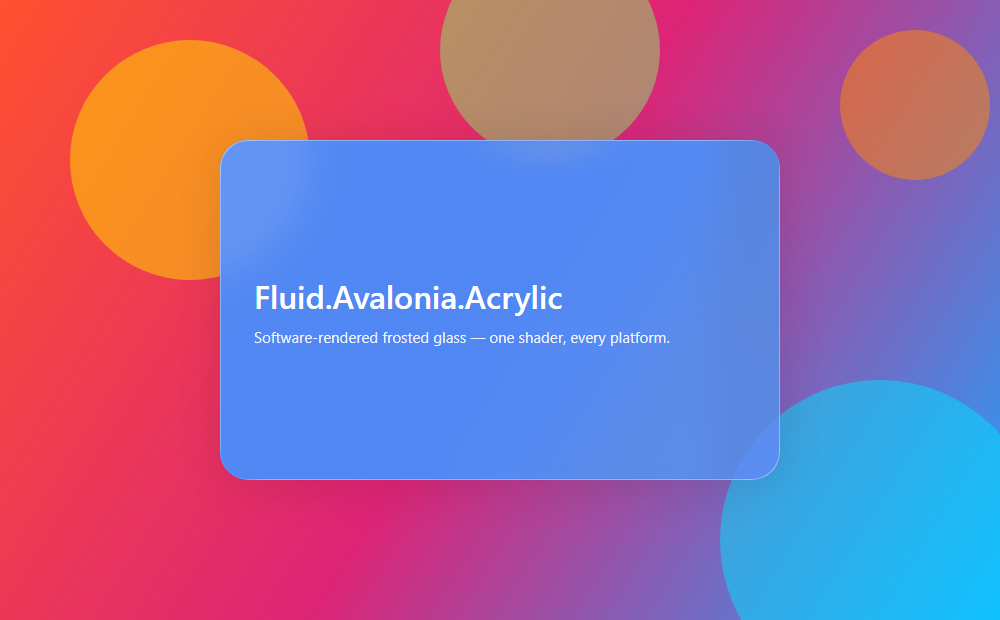
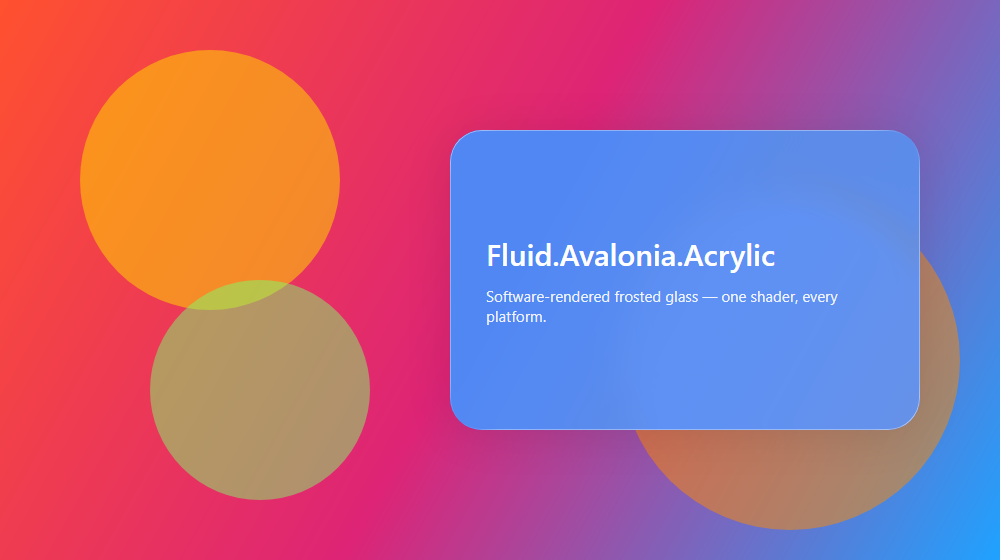
docs: recompose hero off-center and move it into the Screenshots gallery
- Re-render docs/acrylic-hero.png with the glass card off-centered to the right
  (was dead-centered) so the backdrop reads as a real scene.
- Move the hero out of the centered header into the Screenshots section, ahead of
  the showcase and cool shots.

diff --git a/README.md b/README.md
@@ -7,8 +7,6 @@ A cross-platform, software-rendered **acrylic / frosted-glass backdrop** for [Av
 [![NuGet](https://img.shields.io/nuget/v/Fluid.Avalonia.Acrylic.svg)](https://www.nuget.org/packages/Fluid.Avalonia.Acrylic)
 [![License: MIT](https://img.shields.io/badge/License-MIT-blue.svg)](https://github.com/Alpaq92/Fluid.Avalonia.Acrylic/blob/main/LICENSE)
 
-<img src="https://raw.githubusercontent.com/Alpaq92/Fluid.Avalonia.Acrylic/main/docs/acrylic-hero.png" width="820" alt="A frosted-glass AcrylicSurface card over a vibrant backdrop" />
-
 </div>
 
 One shader, every platform.
@@ -16,6 +14,10 @@ One shader, every platform.
 Companion package to **[Fluid.Avalonia](https://github.com/Alpaq92/Fluid.Avalonia)** — though it has no dependency on it and works in any Avalonia app.
 
 ## Screenshots
+
+<p align="center">
+  <img src="https://raw.githubusercontent.com/Alpaq92/Fluid.Avalonia.Acrylic/main/docs/acrylic-hero.png" width="880" alt="A frosted-glass AcrylicSurface card over a vibrant backdrop" />
+</p>
 
 <p align="center">
   <img src="https://raw.githubusercontent.com/Alpaq92/Fluid.Avalonia.Acrylic/main/docs/acrylic-showcase.png" width="880" alt="Three AcrylicSurface cards with different tints frosting a colorful backdrop" />